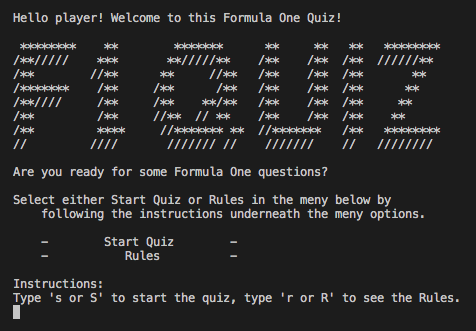
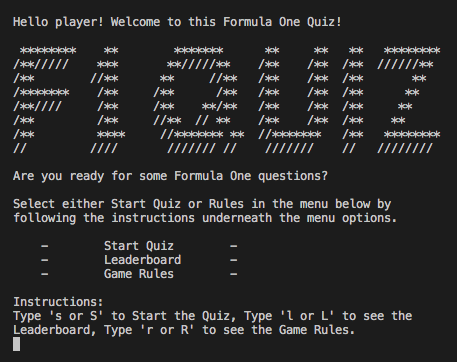
Add Existing Features with images to readme

diff --git a/run.py b/run.py
@@ -127,12 +127,12 @@ def leaderboard():
     clear()
     print("******* Leaderboard *******")
     print("")
-    leader_six = get_score_from_sheet(6, 1)
-    second_place_six = get_score_from_sheet(6, 2)
-    third_place_six = get_score_from_sheet(6, 3)
-    leader_twelve = get_score_from_sheet(12, 1)
-    second_place_twelve = get_score_from_sheet(12, 2)
-    third_place_twelve = get_score_from_sheet(12, 3)
+    leader_six = get_score_from_sheet(6)
+    second_place_six = get_score_from_sheet(6)
+    third_place_six = get_score_from_sheet(6)
+    leader_twelve = get_score_from_sheet(12)
+    second_place_twelve = get_score_from_sheet(12)
+    third_place_twelve = get_score_from_sheet(12)
     print("6 Questions:\n")
     print("Name" + " " * 4 + "Points\n")
     print(leader_six[0])
@@ -209,7 +209,7 @@ def how_many_questions():
             print("You didn't Type in '6 or 12'! Please choose only one.")
 
 
-def get_score_from_sheet(which_quiz, position):
+def get_score_from_sheet(which_quiz):
     """
     Get all data from both worksheets 6 and 12 to organize them in order
     from top to bottom
@@ -219,6 +219,8 @@ def get_score_from_sheet(which_quiz, position):
     elif which_quiz == 12:
         googlesheet = SHEET.worksheet('questions-12')
     googlesheet_values = googlesheet.get_all_values()
+    return googlesheet_values
+    """
     score = googlesheet_values
     score_length = len(score)
     for x in range(0, score_length):
@@ -228,6 +230,7 @@ def get_score_from_sheet(which_quiz, position):
                 score[i] = score[i + 1]
                 score[i + 1] = player
     return score[score_length - (position)]
+    """
 
 
 def start_random_quiz(amount_questions):

diff --git a/README.md b/README.md
@@ -38,6 +38,16 @@ The main goal of this project was to test my new knowledge in Python. I decided 
   * [Flow Diagram](#flow-diagram) 
   * [Comparison](#comparison) 
 
+* [Existing Features](#existing-features)
+  * [Start Screen]()
+  * [Leaderboard]()
+  * [Game Rules]()
+  * [Username]()
+  * [Question Selection]()
+  * [Questions]()
+  * [End Message]()
+  * [Play Again]()
+
 * [Testing](#testing)
   * [Manual Testing](#manual-testing)
     * [Bugs & Solutions](#bugs--solutions)
@@ -84,6 +94,93 @@ Before I started to write any code for this project I made sure to create an eas
 [Lucid Chart](https://www.lucidchart.com/pages/) (link). I used the free version that is available for anyone that register an acount at their website. My `Flow Diagram` is demonstrated below. 
 
 ![Screenshot of my flow diagram](/assets/images/) ADD FINAL FLOW DIAGRAM!
+
+
+---
+## Existing Features
+
+#### Start Screen 
+
+When the program starts the user will get a `Welcome message` including a `"Banner"` and a menu of three different options `Start Quiz | Leaderboard | Game Rules`. Underneath the menu the user can find the instructions about how to select the different options from the menu. See the screenshot below:
+
+![Screenshot of start screen](/assets/images/welcome.png)
+
+If the user doesn't care to follow the instructions or accidentally types the wrong character instead a message will appear to inform the user that he or she has to try again with a valid input. See the screenshot below:  
+
+![Screenshot of error message wrong input start screen](/assets/images/welcome-wrong.png)
+
+#### Leaderboard & Game Rules
+
+When the user selects the `Leaderboard` option he or she will see a leaderboard containing the top 3 finishers of the two different question selections either 6 or 12. When the user want's to exit the leaderboard an get back to the menu there is instructions below that explains this. See the screenshot below:
+
+![Screenshot of leaderboard](/assets/images/)
+
+When the user selects the `Game Rules` option he or she will first get a message that welcomes the user to the Game Rules, after that all of the Game Rules will be displayed. When the user want to exit the Game Rules and get back to the menu there is instructions below that explains this. See the screenshot below:
+
+![Screenshot of Game Rules](/assets/images/rules.png)
+
+When the user want to exit the `Leaderboard or Game Rules` to get back to the menu and accidentally types the wrong character instead of `m or M` a message will appear to inform the user that he or she has to try again with a valid input. See the screenshot below:
+
+![Screenshot of exit leaderboard or game rules](/assets/images/rules-wrong.png)
+
+#### Username 
+
+When the user selects `Start Quiz` to start the quiz a message will appear that says that the user needs to fill in a username, some instructions underneath the first message will inform the user that the username can't be any longer then 10 characters, it can't inculde numbers or special characters. See the screenshot below:
+
+![Screenshot of type in username](/assets/images/username.png)
+
+If the user selected a `valid username` this message will appear: 
+
+![Screenshot of type in username](/assets/images/username-correct.png)
+
+When the user types in his or her username and accidentally types anything else then alphabetics a message will appear to inform the user that he or she has to try again with a valid input. See the screenshot below:
+
+![Screenshot of error when type in username](/assets/images/username-wrong.png)
+
+#### Question Selection 
+
+After the user has selected a valid `username` he or she wiill be asked how many questions to play either `6 or 12`. See the screenshot below:
+
+![Screenshot of question selection](/assets/images/amount-questions.png)
+
+If the user types an invalid number or character not `6 or 12` a message will appear with instructions of how to continue. See the screenshot below:
+
+![Screenshot of error message question selection](/assets/images/amount-wrong.png)
+
+#### Questions 
+
+The `questions` in the Quiz will be displayed to the user right after that the user has selected a valid input between `6 or 12` for the question selection, the user can choose between two options for each question, but only one is the correct answer. See the screenshot below:
+
+![Screenshot of question](/assets/images/question.png)
+
+If the user inputs the correct answer of `either 1 or 2` this message will appear. See the screenshot below:
+
+![Screenshot of correct answer for question](/assets/images/answer-correct.png) 
+
+If the user inputs the wrong answer of `either 1 or 2` this message will appear. See the screenshot below:
+
+![Screenshot of wrong answer for question](/assets/images/answer-wrong.png)
+
+When the user `answers` the question he or she can only input either `1 or 2` as a valid answer for the question, if the user inputs anything else then one of these a message will appear with instructions of how to continue. See the screenshot below:
+
+![Screenshot of error message question](/assets/images/question-wrong.png)
+
+#### End Message
+
+When the user has `completed` all questions of the selected amount `6 or 12 questions` a result message will appear to inform the user about how many points he or she got. The user will see underneath `Please press enter to continue...`. See the screenshot below:
+
+![Screenshot of end message](/assets/images/end-message.png)
+
+#### Play Again 
+
+When the user has pressed enter a message will appear with a question to the user that ask the user if he or she wants to play again or quit the quiz. If the user choose to play again 
+`Y (yes)` he or she will be directed back to the menu, if the user choose `N (no)` the quiz will exit. See the screenshot below:
+
+![Screenshot of play again, yes or no](/assets/images/play-again.png)
+
+If the user input something else then `Y or N` a message will appear to inform the user that he or she needs to try again with a valid option. See the screenshot below:
+
+![Screenshot of error message play again, yes or no](/assets/images/play-again-error.png)
 
 
 ---
